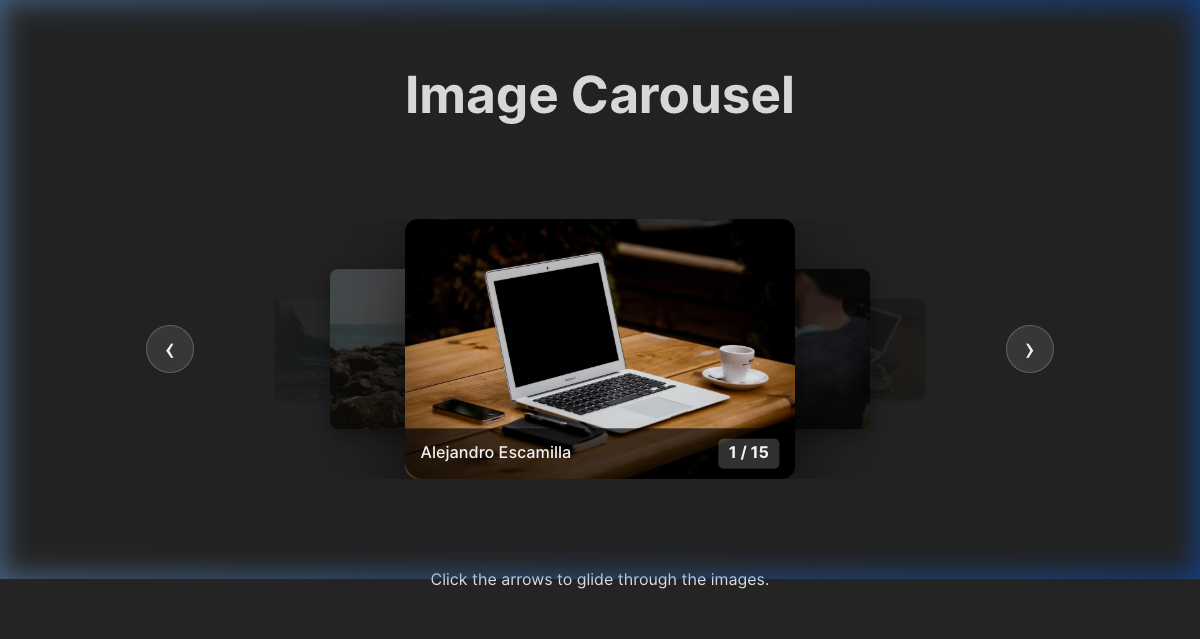
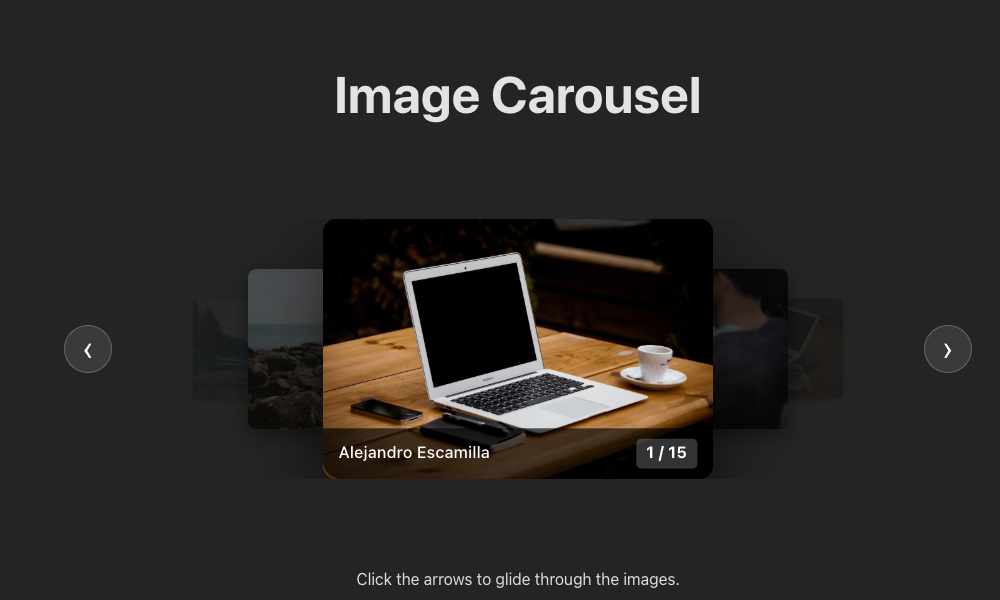
docs: add clean headless screenshots and animated GIF, add capture script

diff --git a/README.md b/README.md
@@ -4,11 +4,17 @@ A **3-image depth carousel** built with React and Vite. Inspired by Android's co
 
 ---
 
-## Screenshots
+## Demo
 
-| Initial state | After navigating |
-|:---:|:---:|
-| ![Carousel — image 1 of 15](docs/screenshot-1.png) | ![Carousel — image 3 of 15](docs/screenshot-2.png) |
+![Animated demo of the carousel navigating through 5 images](docs/carousel.gif)
+
+> Center image is the dominant focal point — side images scale down and darken to create depth.
+
+---
+
+## Screenshot
+
+![Carousel initial state — image 1 of 15](docs/screenshot-1.png)
 
 ---
 
